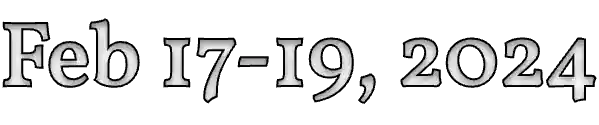
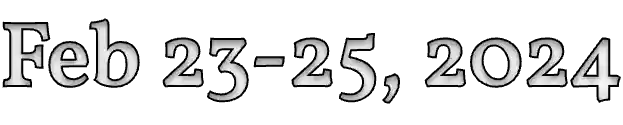
Update date and forms

Changed region(s): [[0.0, 0.144, 0.9917, 0.84], [0.9917, 0.6, 1.0, 0.696], [0.3907, 0.312, 0.4207, 0.384]]

diff --git a/site/grants.html b/site/grants.html
@@ -1,0 +1,64 @@
+<!DOCTYPE html>
+<html lang="en">
+    <head>
+        <meta charset="UTF-8" />
+        <meta name="viewport" content="width=device-width, initial-scale=1.0" />
+        <title>Wonderland</title>
+
+        <link rel="preconnect" href="https://fonts.googleapis.com" />
+        <link rel="preconnect" href="https://fonts.gstatic.com" crossorigin />
+        <link
+            href="https://fonts.googleapis.com/css2?family=Edu+TAS+Beginner:wght@400;500;600;700&family=Vollkorn:ital,wght@0,400;0,700;1,400;1,700"
+            rel="stylesheet"
+        />
+
+        <link rel="stylesheet" href="register.css" />
+
+        <link
+            rel="apple-touch-icon"
+            sizes="180x180"
+            href="/favicons/apple-touch-icon.png?v=1"
+        />
+        <link
+            rel="icon"
+            type="image/png"
+            sizes="32x32"
+            href="/favicons/favicon-32x32.png?v=1"
+        />
+        <link
+            rel="icon"
+            type="image/png"
+            sizes="16x16"
+            href="/favicons/favicon-16x16.png?v=1"
+        />
+        <link rel="manifest" href="/favicons/site.webmanifest?v=1" />
+        <link
+            rel="mask-icon"
+            href="/favicons/safari-pinned-tab.svg?v=1"
+            color="#fbbae4"
+        />
+        <link rel="shortcut icon" href="/favicons/favicon.ico?v=1" />
+        <meta name="msapplication-TileColor" content="#fbbae4" />
+        <meta
+            name="msapplication-config"
+            content="/favicons/browserconfig.xml?v=1"
+        />
+        <meta name="theme-color" content="#fbbae4" />
+    </head>
+    <body>
+        <iframe
+            id="gdoc-embed"
+            style="
+                width: 100%;
+                max-width: 816px;
+                margin: 0 auto;
+                height: 100vh;
+                border: none;
+            "
+            frameborder="0"
+            marginheight="0"
+            marginwidth="0"
+            src="https://docs.google.com/document/d/e/2PACX-1vQ4txFoZuhWbgJb0-M7wpFnI-Nx2zyGMdi27_FV1g6HLh-yrRmSjdt69_eHY-Y3yfd42XyLvyR4pYQU/pub?embedded=true"
+        ></iframe>
+    </body>
+</html>

diff --git a/site/rescheduled.html b/site/rescheduled.html
@@ -1,0 +1,64 @@
+<!DOCTYPE html>
+<html lang="en">
+    <head>
+        <meta charset="UTF-8" />
+        <meta name="viewport" content="width=device-width, initial-scale=1.0" />
+        <title>Wonderland</title>
+
+        <link rel="preconnect" href="https://fonts.googleapis.com" />
+        <link rel="preconnect" href="https://fonts.gstatic.com" crossorigin />
+        <link
+            href="https://fonts.googleapis.com/css2?family=Edu+TAS+Beginner:wght@400;500;600;700&family=Vollkorn:ital,wght@0,400;0,700;1,400;1,700"
+            rel="stylesheet"
+        />
+
+        <link rel="stylesheet" href="register.css" />
+
+        <link
+            rel="apple-touch-icon"
+            sizes="180x180"
+            href="/favicons/apple-touch-icon.png?v=1"
+        />
+        <link
+            rel="icon"
+            type="image/png"
+            sizes="32x32"
+            href="/favicons/favicon-32x32.png?v=1"
+        />
+        <link
+            rel="icon"
+            type="image/png"
+            sizes="16x16"
+            href="/favicons/favicon-16x16.png?v=1"
+        />
+        <link rel="manifest" href="/favicons/site.webmanifest?v=1" />
+        <link
+            rel="mask-icon"
+            href="/favicons/safari-pinned-tab.svg?v=1"
+            color="#fbbae4"
+        />
+        <link rel="shortcut icon" href="/favicons/favicon.ico?v=1" />
+        <meta name="msapplication-TileColor" content="#fbbae4" />
+        <meta
+            name="msapplication-config"
+            content="/favicons/browserconfig.xml?v=1"
+        />
+        <meta name="theme-color" content="#fbbae4" />
+    </head>
+    <body>
+        <iframe
+            id="gdoc-embed"
+            style="
+                width: 100%;
+                max-width: 816px;
+                margin: 0 auto;
+                height: 100vh;
+                border: none;
+            "
+            frameborder="0"
+            marginheight="0"
+            marginwidth="0"
+            src="https://docs.google.com/document/d/e/2PACX-1vR0KE3wYbfo3TT4axbErPitcsapE1BCsXuEd-AKpWiVsmn9xMMZ42V4n6Ny7ivfgddyxejRD84c7DTp/pub?embedded=true"
+        ></iframe>
+    </body>
+</html>

diff --git a/site/travel.html b/site/travel.html
@@ -1,0 +1,64 @@
+<!DOCTYPE html>
+<html lang="en">
+    <head>
+        <meta charset="UTF-8" />
+        <meta name="viewport" content="width=device-width, initial-scale=1.0" />
+        <title>Wonderland</title>
+
+        <link rel="preconnect" href="https://fonts.googleapis.com" />
+        <link rel="preconnect" href="https://fonts.gstatic.com" crossorigin />
+        <link
+            href="https://fonts.googleapis.com/css2?family=Edu+TAS+Beginner:wght@400;500;600;700&family=Vollkorn:ital,wght@0,400;0,700;1,400;1,700"
+            rel="stylesheet"
+        />
+
+        <link rel="stylesheet" href="register.css" />
+
+        <link
+            rel="apple-touch-icon"
+            sizes="180x180"
+            href="/favicons/apple-touch-icon.png?v=1"
+        />
+        <link
+            rel="icon"
+            type="image/png"
+            sizes="32x32"
+            href="/favicons/favicon-32x32.png?v=1"
+        />
+        <link
+            rel="icon"
+            type="image/png"
+            sizes="16x16"
+            href="/favicons/favicon-16x16.png?v=1"
+        />
+        <link rel="manifest" href="/favicons/site.webmanifest?v=1" />
+        <link
+            rel="mask-icon"
+            href="/favicons/safari-pinned-tab.svg?v=1"
+            color="#fbbae4"
+        />
+        <link rel="shortcut icon" href="/favicons/favicon.ico?v=1" />
+        <meta name="msapplication-TileColor" content="#fbbae4" />
+        <meta
+            name="msapplication-config"
+            content="/favicons/browserconfig.xml?v=1"
+        />
+        <meta name="theme-color" content="#fbbae4" />
+    </head>
+    <body>
+        <iframe
+            id="gdoc-embed"
+            style="
+                width: 100%;
+                max-width: 816px;
+                margin: 0 auto;
+                height: 100vh;
+                border: none;
+            "
+            frameborder="0"
+            marginheight="0"
+            marginwidth="0"
+            src="https://docs.google.com/document/d/e/2PACX-1vSJrq9gh-a7OPnq1n_lsGvL2XUX5oZB-yWN6Sb7LdHstf03tgT3PKiJiI6NqBR57tq7b2XlSYftrtQ3/pub?embedded=true"
+        ></iframe>
+    </body>
+</html>

diff --git a/site/index.html b/site/index.html
@@ -347,8 +347,8 @@
                 </p>
                 <p>Only when we limit ourselves do we become truly free.</p>
                 <p>
-                    Boston, MA from the evening of Saturday, February 17th to
-                    the morning of Monday, February 19th.
+                    Boston, MA from the evening of Friday, February 23th to the
+                    morning of Sunday, February 25th.
                 </p>
                 <p><a href="/register.html">Join us.</a></p>
             </div>
@@ -583,6 +583,15 @@
                     >. We're always ready to answer all your questions!
                 </p>
             </div>
+        </div>
+
+        <div id="rescheduled-alert">
+            FYI, we've
+            <a href="/rescheduled.html"
+                >rescheduled Wonderland to the February 23-25th</a
+            >. All participants are
+            <a href="/register.html">required to re-register</a> if you have
+            already filled out the form.
         </div>
 
         <script src="/lib/anime.min.js"></script>

diff --git a/site/register.html b/site/register.html
@@ -46,7 +46,20 @@
         <meta name="theme-color" content="#fbbae4" />
     </head>
     <body>
-        <main>
+        <iframe
+            class="airtable-embed"
+            src="https://airtable.com/embed/appUXrUCH7RSjfXZb/pag68YasPaWyVee4J/form"
+            frameborder="0"
+            onmousewheel=""
+            width="100%"
+            height="533"
+            style="
+                background: transparent;
+                border: 1px solid #ccc;
+                height: 100vh;
+            "
+        ></iframe>
+        <!-- <main>
             <a href="/"><img src="/images/wonderland.svg" alt="" /></a>
             <iframe
                 data-tally-src="https://tally.so/embed/mK1ea7?alignLeft=1&hideTitle=1&transparentBackground=1&dynamicHeight=1"
@@ -81,6 +94,6 @@
                         d.body.appendChild(s);
                 }
             </script>
-        </main>
+        </main> -->
     </body>
 </html>

diff --git a/site/index.css b/site/index.css
@@ -854,6 +854,30 @@ img {
     color: #fff;
 }
 
+#rescheduled-alert {
+    z-index: 150;
+    position: fixed;
+    transform: translate(-50%, -50%);
+    top: 5rem;
+    left: 50%;
+
+    background: #ffb6e6;
+    padding: 1rem 2rem;
+    border-radius: 2rem;
+
+    font-family: 'Vollkorn', serif;
+    font-size: 1.1rem;
+
+    width: 80%;
+    max-width: 30rem;
+
+    color: black;
+}
+
+#rescheduled-alert a {
+    color: black;
+}
+
 @media screen and (max-width: 850px) {
     #tagline {
         font-size: 5rem;

diff --git a/site/register.css b/site/register.css
@@ -35,3 +35,7 @@ img {
     width: 100%;
     max-width: 600px;
 }
+
+.airtable-embed {
+    height: 100vh !important;
+}
